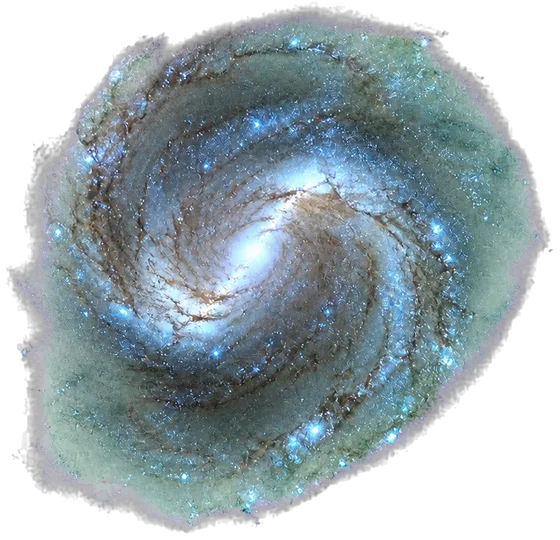
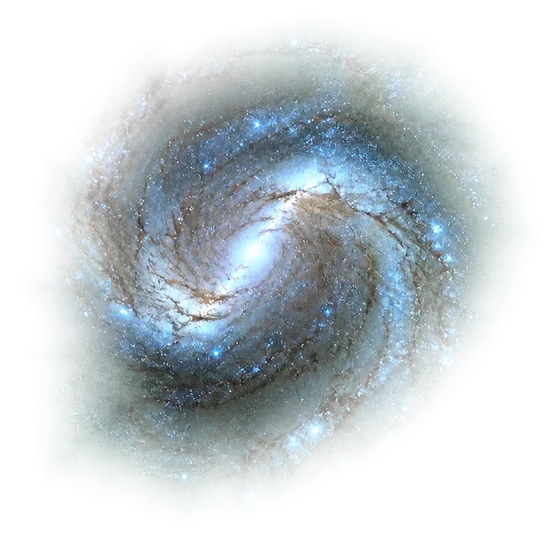
feat(theme): refine celestial background assets

diff --git a/frontend/sass/layout/_app-shell.scss b/frontend/sass/layout/_app-shell.scss
@@ -117,7 +117,7 @@
             top: 7%;
             right: 5.5%;
 
-            width: clamp(5.5rem, 6.5vw, 8rem);
+            width: clamp(6.2rem, 7vw, 8.8rem);
             aspect-ratio: 560 / 540;
 
             background-image: url('../../ts/assets/backgrounds/galaxy-barred-realistic.webp');
@@ -137,7 +137,7 @@
             top: 24%;
             left: 4.5%;
 
-            width: clamp(6.5rem, 7.8vw, 9.5rem);
+            width: clamp(7.6rem, 9vw, 11rem);
             aspect-ratio: 620 / 340;
 
             background-image: url('../../ts/assets/backgrounds/galaxy-broad-realistic.webp');
@@ -154,7 +154,7 @@
             bottom: 7%;
             left: 4%;
 
-            width: clamp(8.5rem, 10.5vw, 12.5rem);
+            width: clamp(10.5rem, 12vw, 14rem);
             aspect-ratio: 620 / 167;
 
             background-image: url('../../ts/assets/backgrounds/galaxy-edge-realistic.webp');
@@ -174,7 +174,7 @@
             right: 6%;
             bottom: 10%;
 
-            width: clamp(4rem, 4.8vw, 5.8rem);
+            width: clamp(3.5rem, 4.2vw, 5rem);
             aspect-ratio: 420 / 426;
 
             background-image: url('../../ts/assets/backgrounds/galaxy-ring-realistic.webp');
@@ -191,10 +191,30 @@
             top: 54%;
             right: 15%;
 
-            width: clamp(3.2rem, 4vw, 4.8rem);
+            width: clamp(2.7rem, 3.4vw, 4rem);
             aspect-ratio: 420 / 560;
 
             background-image: url('../../ts/assets/backgrounds/nebula-hourglass-realistic.webp');
+        }
+
+        &--wolf-rayet-cocoon {
+            --celestial-core-x: 49%;
+            --celestial-core-y: 51%;
+            --celestial-drift-duration: 36s;
+            --celestial-drift-delay: -28s;
+            --celestial-glow: #{rgba($secondary, .42)};
+            --celestial-glow-size: .34rem;
+            --celestial-glow-radius: 1.25rem;
+            --celestial-glow-duration: 6.6s;
+            --celestial-glow-delay: -4.3s;
+
+            top: 69%;
+            left: 10%;
+
+            width: clamp(3.8rem, 4.6vw, 5.6rem);
+            aspect-ratio: 360 / 397;
+
+            background-image: url('../../ts/assets/backgrounds/wolf-rayet-cocoon-realistic.webp');
         }
 
         &--quasar-jet {
@@ -208,13 +228,15 @@
             top: 28%;
             right: 27%;
 
-            width: clamp(2.2rem, 2.7vw, 3.3rem);
+            width: clamp(1.9rem, 2.3vw, 2.8rem);
             aspect-ratio: 260 / 842;
 
             background-image: url('../../ts/assets/backgrounds/quasar-jet-realistic.webp');
         }
 
-        &--quasar-radio {
+        &--wolf-rayet-shells {
+            --celestial-core-x: 10%;
+            --celestial-core-y: 63%;
             --celestial-drift-duration: 31s;
             --celestial-drift-delay: -22s;
             --celestial-glow: #{rgba($secondary, .48)};
@@ -225,10 +247,10 @@
             bottom: 22%;
             left: 44%;
 
-            width: clamp(5rem, 6.4vw, 7.5rem);
-            aspect-ratio: 560 / 197;
+            width: clamp(6.4rem, 7.6vw, 9rem);
+            aspect-ratio: 560 / 453;
 
-            background-image: url('../../ts/assets/backgrounds/quasar-radio-realistic.webp');
+            background-image: url('../../ts/assets/backgrounds/wolf-rayet-shells-realistic.webp');
         }
 
         &--quasar-lensed {
@@ -242,7 +264,7 @@
             top: 17%;
             left: 34%;
 
-            width: clamp(2rem, 2.4vw, 3rem);
+            width: clamp(1.4rem, 1.8vw, 2.2rem);
             aspect-ratio: 280 / 277;
 
             background-image: url('../../ts/assets/backgrounds/quasar-lensed-realistic.webp');

diff --git a/frontend/ts/App.tsx b/frontend/ts/App.tsx
@@ -40,8 +40,9 @@ const App: React.FC = () => {
 			<div className="space-background__celestial space-background__celestial--galaxy-edge" />
 			<div className="space-background__celestial space-background__celestial--galaxy-ring" />
 			<div className="space-background__celestial space-background__celestial--nebula-hourglass" />
+			<div className="space-background__celestial space-background__celestial--wolf-rayet-cocoon" />
 			<div className="space-background__celestial space-background__celestial--quasar-jet" />
-			<div className="space-background__celestial space-background__celestial--quasar-radio" />
+			<div className="space-background__celestial space-background__celestial--wolf-rayet-shells" />
 			<div className="space-background__celestial space-background__celestial--quasar-lensed" />
 		</div>
 		<Header />

diff --git a/PROJECT_PLAN.md b/PROJECT_PLAN.md
@@ -650,10 +650,10 @@ Work in this order:
 
 1. Establish the shared animated space background with a static reduced-motion
    fallback and no additional canvas or GPU renderer. Its refined version uses
-   seeded star atlases, small transparent realistic galaxies, nebulae, and
-   quasars, mathematically closed animation and glow loops, restrained ambient
-   color, and shared dark surface colors.
-   **Implemented and verified on 2026-08-27.**
+   seeded star atlases, small transparent realistic galaxies, nebulae, quasars,
+   and stellar dust shells, mathematically closed animation and glow loops,
+   restrained ambient color, and shared dark surface colors.
+   **Implemented and verified on 2026-08-28.**
 2. Redesign Home while preserving its minimal welcome-and-quotes identity.
 3. Continue page by page, including the information-architecture and feedback
    work below, without globally restyling unfinished pages.
